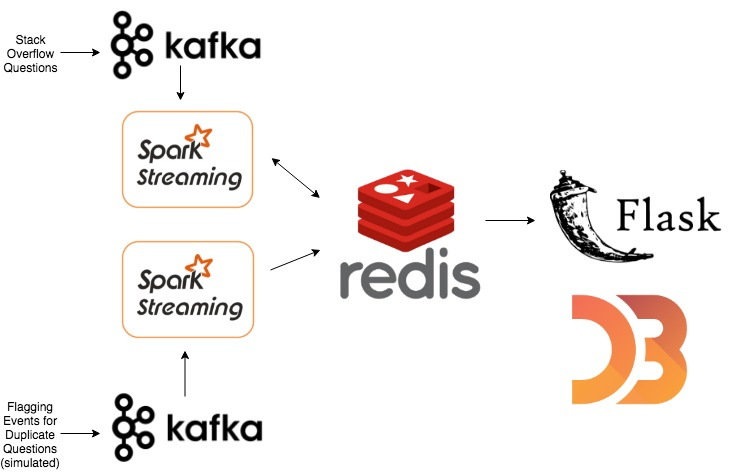
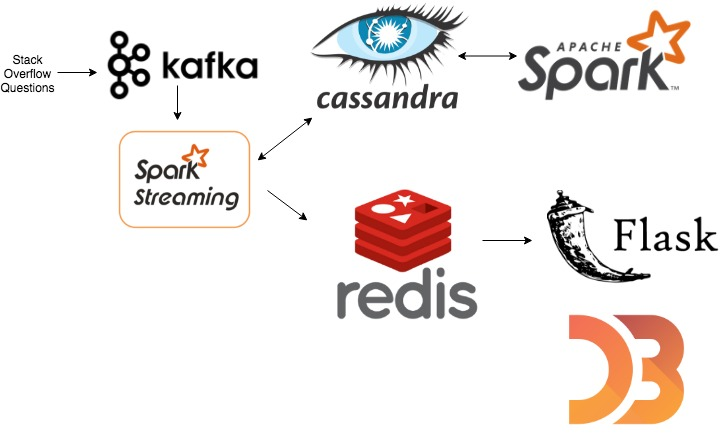
engineering challenges

diff --git a/README.md b/README.md
@@ -42,8 +42,12 @@ AskedAgain hopes to provide a streamlined, automatic pipeline to quickly identif
 ### Futher thoughts
 * Stack Overflow provides the *related_post* attribute for every post, determined by their internal data processing pipeline (specifically [Elastic Search's "More Like This" query](https://meta.stackexchange.com/questions/20473/how-are-related-questions-selected)). This allows us to generate a graph where nodes represent questions and edges connect related questions - could this be used for anything?
 
+### Engineering Challenges
+* Implementing an online version of MinHash/LSH that is performant for a high thoroughput data stream
+*  Ensure the Spark batch job will not fall too behind the high thoroughput input stream
+
 ### Architecture
-![Architecture](https://raw.github.com/kellielu/askedagain/master/imgs/AnnotatedArchitecture.jpg)
+![Architecture](https://raw.github.com/kellielu/askedagain/master/imgs/Architecture.jpg)
 ### Dataset
 Stack Overflow data dump, available as a subset of the [Stack Exchange data dump](https://archive.org/details/stackexchange). 
 The Stack Overflow dataset is also accessible on [Google Big Query](https://cloud.google.com/bigquery/public-data/stackoverflow).
